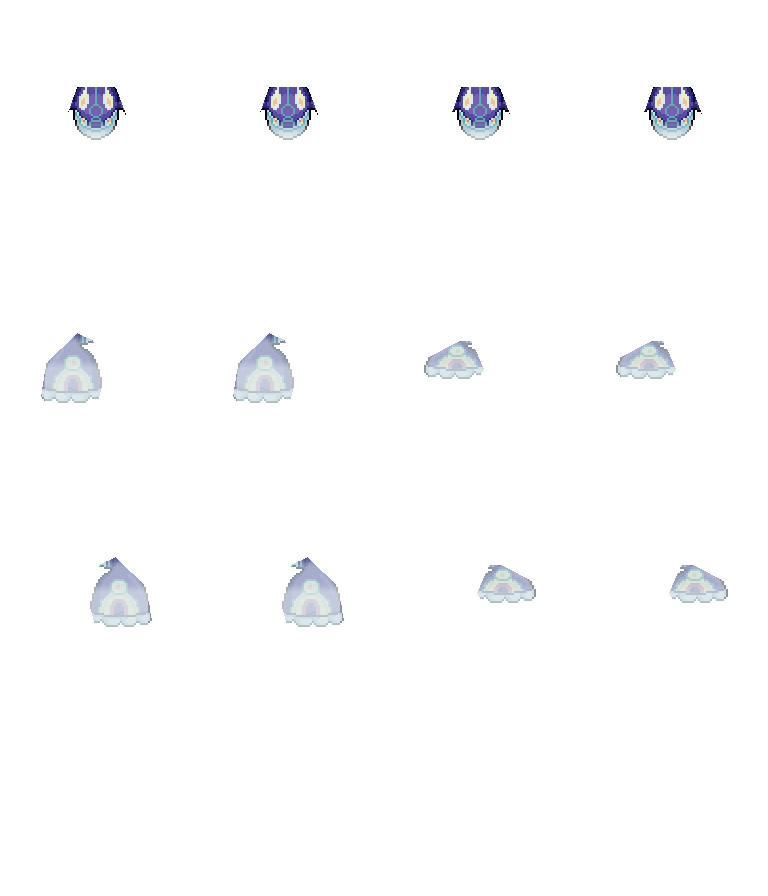
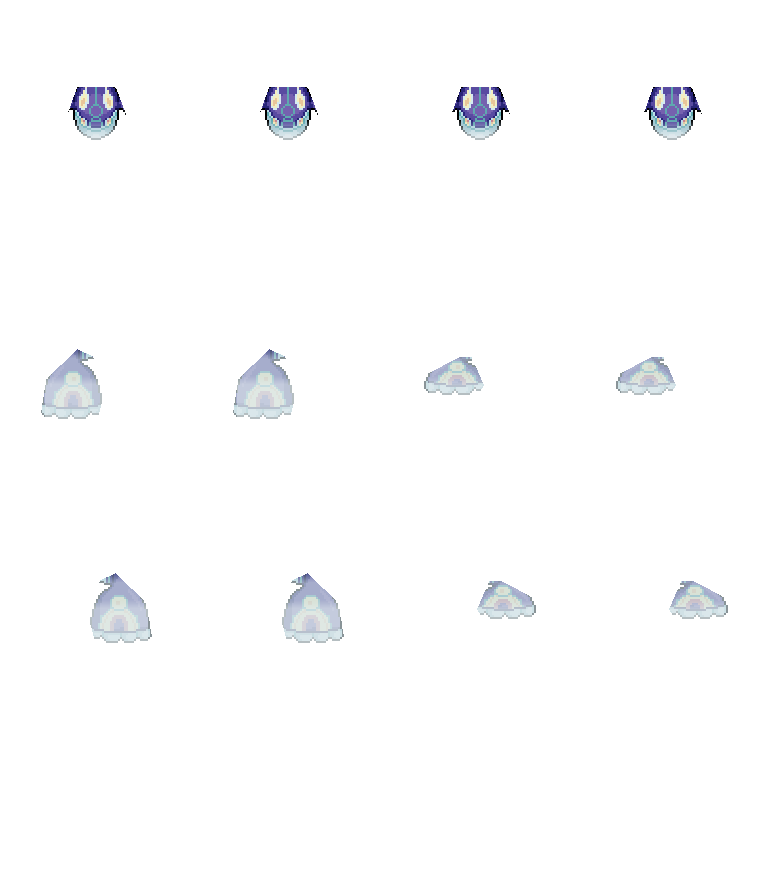
Align Kyogre side-view waterline with occupied Surf tile

diff --git a/tools/build_primal_kyogre_mount.py b/tools/build_primal_kyogre_mount.py
@@ -9,6 +9,9 @@ ROOT = Path(__file__).resolve().parents[1]
 FOLDER = ROOT / 'assets/mounts/primal_kyogre'
 FRAME = (192, 224)
 DIRECTIONS = ('down', 'left', 'right', 'up')
+# The world Look node sits 16px above the actor's occupied tile. Compensate
+# side views as a complete rig, after the approved underwater treatment.
+WATERLINE_Y = (0, 16, 16, 0)
 SEATS = (((88,8),)*4, ((96,-20),(96,-20),(96,-2),(96,-2)),
          ((96,-20),(96,-20),(96,-2),(96,-2)), ((88,3),)*4)
 # Front/rear positioning remains as approved. Side views anchor the hull,
@@ -23,7 +26,7 @@ SHIFTS = (((-24,21),)*4,
 
 def definition(shiny=False):
     offsets = {d: [[x+SHIFTS[r][c][0]-(FRAME[0]-64)//2,
-                   y+SHIFTS[r][c][1]-(FRAME[1]-64)//2] for c,(x,y) in enumerate(SEATS[r])]
+                   y+SHIFTS[r][c][1]+WATERLINE_Y[r]-(FRAME[1]-64)//2] for c,(x,y) in enumerate(SEATS[r])]
                for r,d in enumerate(DIRECTIONS)}
     folder = 'primal_kyogre_shiny' if shiny else 'primal_kyogre'
     return {'displayName':'Shiny Primal Kyogre' if shiny else 'Primal Kyogre', 'movementMode':'surf',
@@ -93,6 +96,13 @@ def shiny_source(source):
     return result
 
 
+def align_waterline(tile, row):
+    result = Image.new('RGBA', FRAME)
+    result.alpha_composite(tile, (0, WATERLINE_Y[row]))
+    assert sum(result.getchannel('A').histogram()[1:]) == sum(tile.getchannel('A').histogram()[1:]), 'Waterline alignment must not clip artwork'
+    return result
+
+
 def build_variant(source, folder):
     folder.mkdir(parents=True, exist_ok=True)
     assert source.size == (1024,512)
@@ -113,7 +123,7 @@ def build_variant(source, folder):
             wet.putalpha(ImageChops.subtract(wet.getchannel('A'),fg.getchannel('A')))
             base, fg = wet, immerse(fg,row,col)
             for key,tile in [('mount',base),('foreground',fg),('rider_mask',mask)]:
-                sheets[key].alpha_composite(tile,(col*FRAME[0],row*FRAME[1]))
+                sheets[key].alpha_composite(align_waterline(tile,row),(col*FRAME[0],row*FRAME[1]))
     for key,sheet in sheets.items():
         sheet.save(folder/f'{key}.png')
     # Inventory controls fit this tight icon themselves; no oversized padding.
@@ -121,7 +131,7 @@ def build_variant(source, folder):
     icon.crop(icon.getbbox()).save(folder/'icon.png')
     for name in ['source','mount','foreground','rider_mask','icon']:
         write_texture_import(ROOT,(folder/f'{name}.png').relative_to(ROOT))
-    print(f'{folder.name}: water contact, unchanged seats and opaque rider mask.')
+    print(f'{folder.name}: aligned water contact, preserved riding pose and opaque rider mask.')
 
 
 def build():
@@ -134,7 +144,7 @@ def build():
     for moving in (False,True):
         for row in range(4):
             for col in range(4):
-                contact.alpha_composite(foam(row,col/4,moving),(col*FRAME[0],(row+4*int(moving))*FRAME[1]))
+                contact.alpha_composite(align_waterline(foam(row,col/4,moving),row),(col*FRAME[0],(row+4*int(moving))*FRAME[1]))
     contact.save(FOLDER/'water_contact.png')
     write_texture_import(ROOT,(FOLDER/'water_contact.png').relative_to(ROOT))
     catalog = json.loads((ROOT/'data/mounts.json').read_text())['mounts']

diff --git a/assets/mounts/primal_kyogre/README.md b/assets/mounts/primal_kyogre/README.md
@@ -2,8 +2,9 @@
 
 Normal and shiny Kyogre use the approved water-contact treatment: the underside,
 flippers and tail fade into the map water, with contact foam and a directional
-wake while swimming. Native source scale, world anchors, seat offsets and
-opaque rider masks are retained from the approved V4 rig.
+wake while swimming. Native source scale and the riding pose are retained from
+the approved V4 rig. Both side views move the complete rig down 16 native pixels
+to compensate for the world's `Look.position.y = -16`.
 
 `source.png` remains the unmodified supplied art. Rebuild both color variants
 with `python3 tools/build_primal_kyogre_mount.py`. The water depth/palette and
@@ -11,10 +12,12 @@ pixel foam are in `tools/primal_kyogre_water_contact.py`. Normal and shiny share
 the generated `water_contact.png` sheet: four directions of idle contact on top,
 four directions of moving contact/wake below, four 192×224 cells per row.
 
-Only the mount colors/alpha change. The underwater foreground is removed from
+The underwater foreground is removed from
 the base atlas so it is drawn once; the original opaque rider mask remains
 separate, keeping player anatomy from showing through a translucent fin.
-Source art, inventory icons, seat offsets and Surf-fishing offsets are unchanged.
+Source art, inventory icons and relative Surf-fishing offsets are unchanged.
+Base, foreground, opaque mask, seat and water contact share the side-view shift;
+the world/collision position and front/rear views are unchanged.
 
 `MountWaterContact` is a cached AnimatedSprite2D child of the existing foreground.
 Local and remote avatars synchronize its direction and frame with the mount;
@@ -24,9 +27,11 @@ player appearance parts. Dismounting or selecting another mount clears it.
 Kyogre uses this contact/wake instead of generic circular Surf-step ripples;
 Lapras's ripples and all fishing splashes keep their existing behavior.
 
-World alignment still anchors the side hull rather than the downward fin tip,
-compensating the original source pose's 18px torso shift. This keeps the rider
-steady and the actor origin unchanged for NPC interaction and depth sorting.
+World alignment anchors the side hull rather than the downward fin tip,
+compensating the original source pose's 18px torso shift. The nose waterline is
+within four pixels of the occupied tile center in both side views and all frames.
+The previous half-tile tolerance was too loose: it let Kyogre appear above the
+NPC whose adjacent tile the player actually occupied.
 
 Runtime captures (both player models, idle/swimming/fishing, all directions):
 
@@ -40,6 +45,8 @@ ops/worktrees/slot-env SLOT -- godot --path .worktrees/SLOT/frontend \
 Add `--shiny` for the shiny variant. The capture restores a fixed 2× magnification
 after Store auto-fit; `--water` uses a tile from the game water texture. It is a
 runtime render study, not a networked live-map session.
+Add `--anchors` for a gold outline of the occupied tile and a cross at its center.
+Use `--mount=lapras` to compare the same world anchor with Lapras.
 
 Focused checks: `kyogre_water_contact_check`, `primal_kyogre_surf_check`,
 `surf_mount_render_check`, `mount_world_depth_check`, `mount_nameplate_check`,

diff --git a/CHANGELOG.md b/CHANGELOG.md
@@ -2,6 +2,8 @@
 
 ## Unreleased
 
+- Align normal and shiny Kyogre's side-view hull, rider and water contact with the occupied Surf tile beside NPCs.
+
 - Give normal and shiny Primal Kyogre submerged fins/tail, hull foam and a swimming wake while preserving rider poses, fishing and map depth.
 
 - Style the Bag mount tradeability dropdown with a dark rounded menu, gold accents, custom selection icons and clearer hover states.
